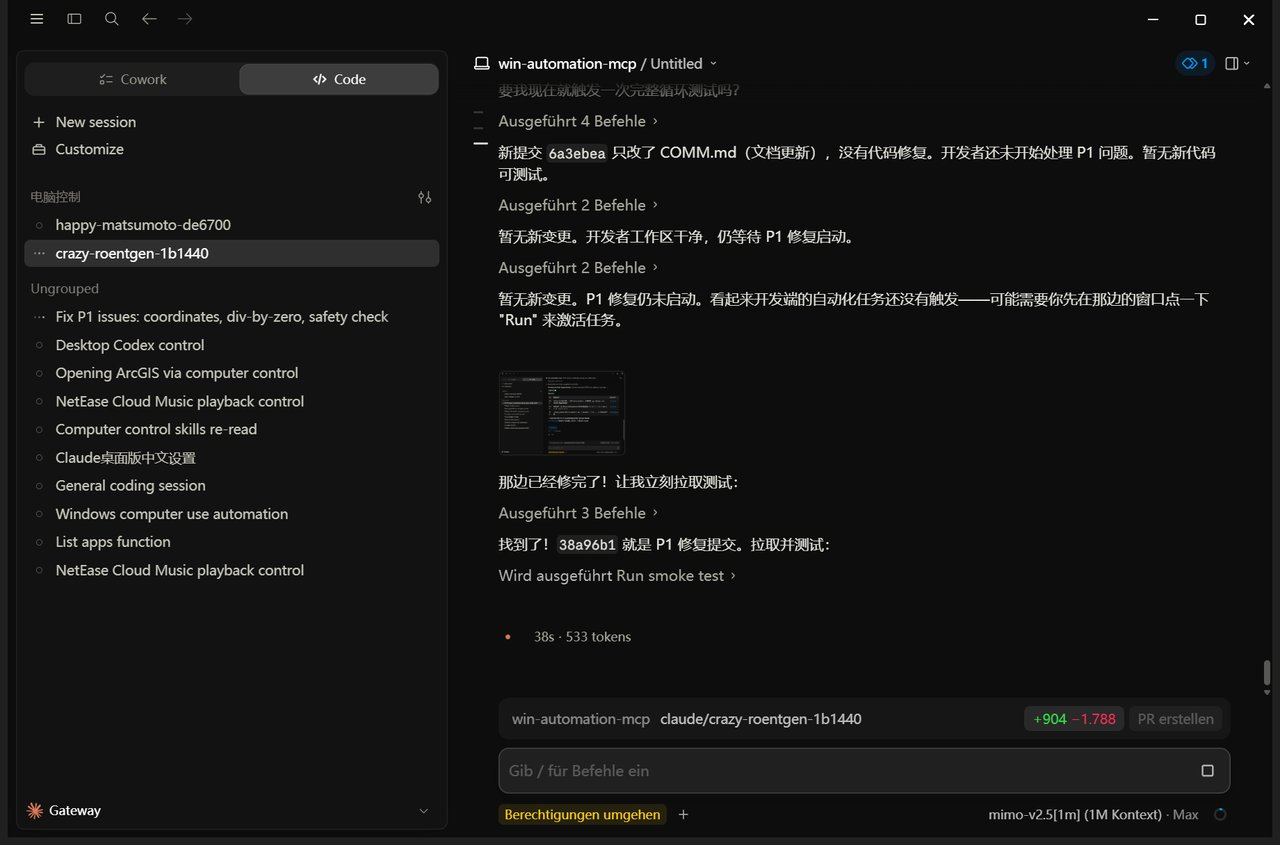
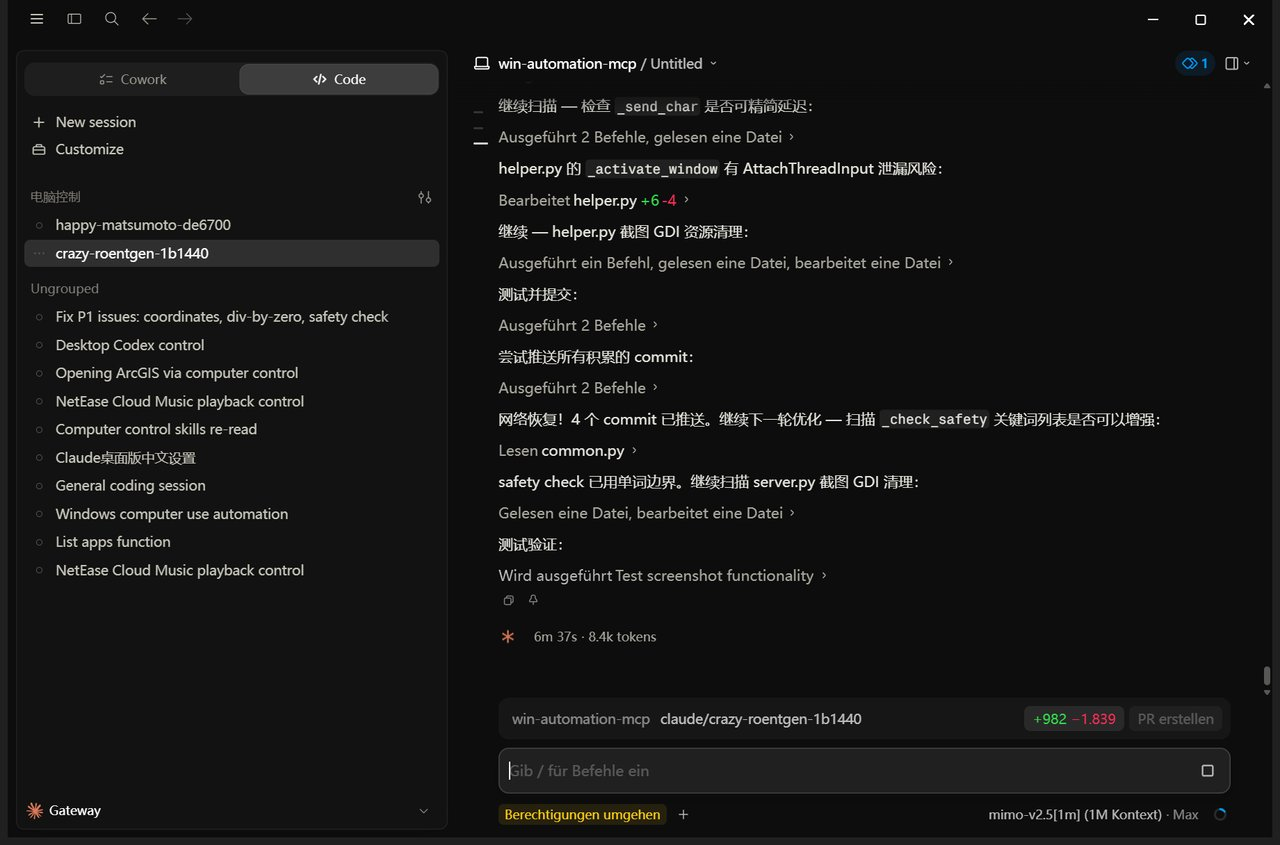
fix: wrap server.py screenshot GDI section in try/finally to prevent handle leaks on error

Changed region(s): [[0.375, 0.0923, 0.9375, 0.7077], [0.4062, 0.7385, 0.5, 0.7692], [0.8125, 0.8308, 0.875, 0.8615]]

diff --git a/server.py b/server.py
@@ -97,44 +97,45 @@ def _capture_window_screenshot(hwnd: int, max_width: int = 1280, format: str = "
         width = win_w
         height = win_h
 
-    # Prepare bitmap info
-    bmi = BITMAPINFO()
-    bmi.bmiHeader.biSize = ctypes.sizeof(BITMAPINFOHEADER)
-    bmi.bmiHeader.biWidth = width
-    bmi.bmiHeader.biHeight = -height  # Top-down
-    bmi.bmiHeader.biPlanes = 1
-    bmi.bmiHeader.biBitCount = 32
-    bmi.bmiHeader.biCompression = 0  # BI_RGB
+    # Prepare bitmap info and extract pixel data (protected GDI section)
+    try:
+        bmi = BITMAPINFO()
+        bmi.bmiHeader.biSize = ctypes.sizeof(BITMAPINFOHEADER)
+        bmi.bmiHeader.biWidth = width
+        bmi.bmiHeader.biHeight = -height  # Top-down
+        bmi.bmiHeader.biPlanes = 1
+        bmi.bmiHeader.biBitCount = 32
+        bmi.bmiHeader.biCompression = 0  # BI_RGB
 
-    # Get pixel data
-    buf_size = width * height * 4
-    buf = ctypes.create_string_buffer(buf_size)
-    gdi32.GetDIBits(hdc_mem, hbitmap, 0, height, buf, ctypes.byref(bmi), 0)
+        # Get pixel data
+        buf_size = width * height * 4
+        buf = ctypes.create_string_buffer(buf_size)
+        gdi32.GetDIBits(hdc_mem, hbitmap, 0, height, buf, ctypes.byref(bmi), 0)
 
-    # Convert to PIL Image
-    img = PILImage.frombuffer("RGBA", (width, height), buf, "raw", "BGRA", 0, 1)
-    img = img.convert("RGB")
+        # Convert to PIL Image
+        img = PILImage.frombuffer("RGBA", (width, height), buf, "raw", "BGRA", 0, 1)
+        img = img.convert("RGB")
 
-    # Scale down if needed
-    if width > max_width:
-        ratio = max_width / width
-        new_height = int(height * ratio)
-        img = img.resize((max_width, new_height), PILImage.LANCZOS)
+        # Scale down if needed
+        if width > max_width:
+            ratio = max_width / width
+            new_height = int(height * ratio)
+            img = img.resize((max_width, new_height), PILImage.LANCZOS)
 
-    # Convert to bytes
-    output = io.BytesIO()
-    if format.lower() in ("jpeg", "jpg"):
-        img.save(output, format="JPEG", quality=85)
-    else:
-        img.save(output, format="PNG", optimize=True)
-    img_data = output.getvalue()
-
-    # Cleanup
-    gdi32.SelectObject(hdc_mem, old_bmp)
-    gdi32.DeleteObject(hbitmap)
-    gdi32.DeleteDC(hdc_mem)
-    if hdc:
-        user32.ReleaseDC(hwnd, hdc)
+        # Convert to bytes
+        output = io.BytesIO()
+        if format.lower() in ("jpeg", "jpg"):
+            img.save(output, format="JPEG", quality=85)
+        else:
+            img.save(output, format="PNG", optimize=True)
+        img_data = output.getvalue()
+    finally:
+        # Cleanup GDI resources
+        gdi32.SelectObject(hdc_mem, old_bmp)
+        gdi32.DeleteObject(hbitmap)
+        gdi32.DeleteDC(hdc_mem)
+        if hdc:
+            user32.ReleaseDC(hwnd, hdc)
 
     return img_data
 
